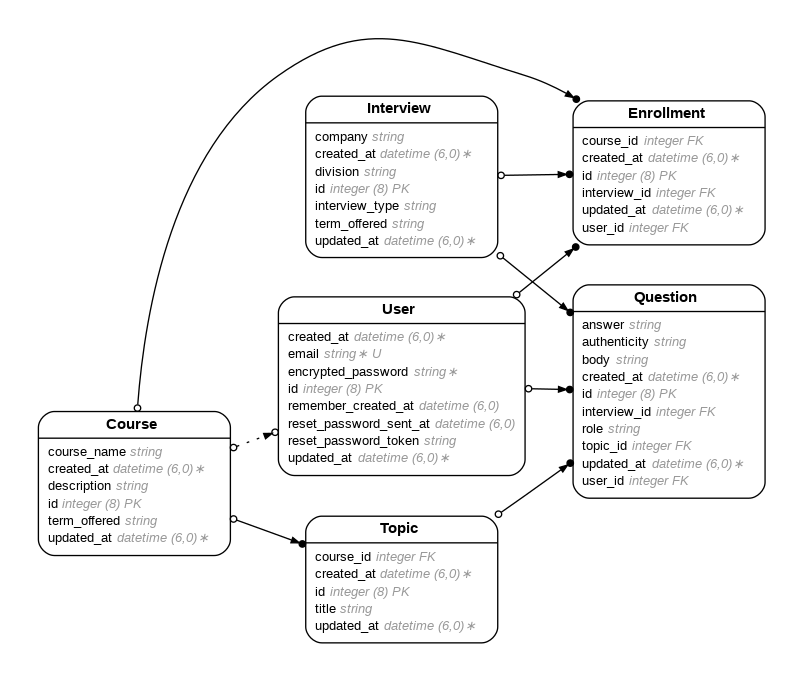
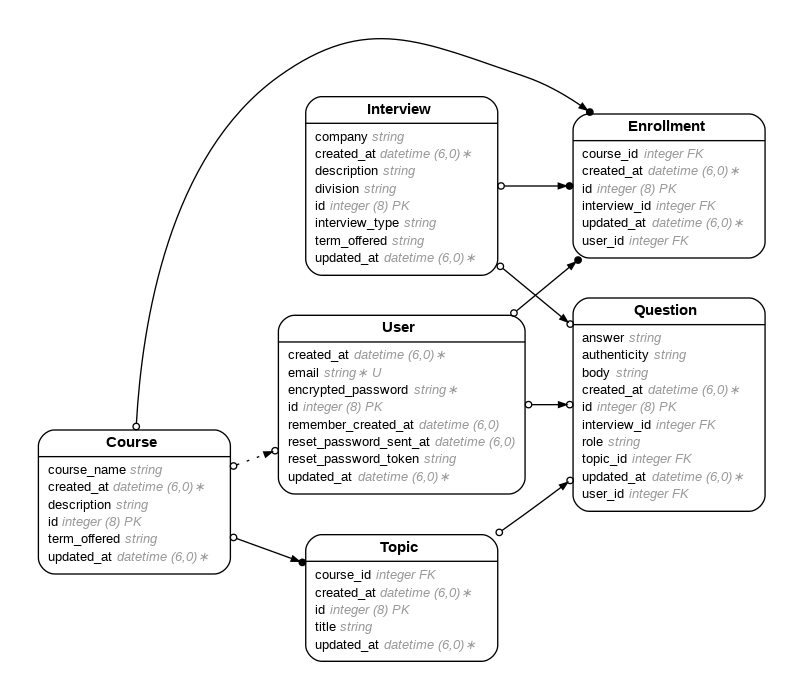
v6 working on interviews

diff --git a/app/controllers/interviews_controller.rb b/app/controllers/interviews_controller.rb
@@ -23,9 +23,74 @@ class InterviewsController < ApplicationController
     the_interview.interview_type = params.fetch("query_interview_type")
     the_interview.term_offered = params.fetch("query_term_offered")
     the_interview.division = params.fetch("query_division")
+    the_interview.description = params.fetch("query_description")
+    
 
     if the_interview.valid?
       the_interview.save
+
+    # Create system message
+
+    system_question = Question.new
+    system_question.interview_id = the_interview.id
+    system_question.role = "system"
+    system_question.body = "You are a #{the_interview.division} #{the_interview.description} mock interviewer. Generate a interview on #{the_interview.interview_type} to simulate a real interview. Start by asking the user to tell you about themselves. Follow up after the user replies with behavioral questions. Ask 5 to 10 behavioral questions one at a time to the user. Then move on to a case question on #{the_interview.title}. For the case, make the structure similar to a consulting or technology interview case. During the case, remember to give them information if they ask any clarifying questions. After both the behavioral portion and the casing portion of the interview is over, please assess the user's answers and give them feedback on where they could improve."
+    system_question.authenticity = "generated"
+    system_question.save
+
+    # Create first user message
+
+    user_question = Question.new
+    user_question.role = "user"
+    user_question.interview_id = the_interview.id
+    user_question.body = "Can you mock interview me about #{the_interview.title} and then provide feedback after?"
+    user_question.authenticity = "generated"
+    # user_question.answer = "user" Need to use an if then statement here
+    if user_question.body.include?("?")
+      user_question.answer = "yes"
+    else
+      user_question.answer = "no" # Or any other default value you prefer
+    end
+    user_question.save
+
+    # Call API to get first assistant message
+
+    client = OpenAI::Client.new(access_token: ENV.fetch("OPENAI_API_KEY"))
+
+    question_list = [
+      {
+        "role" => "system",
+        "content" => "You are a #{the_topic.title} mock interviewer. Generate an interview on #{the_topic.title} to simulate a real interview. Start by asking the user to tell you about themselves. Follow up after the user replies with behavioral questions. Ask 5 to 10 behavioral questions one at a time to the user. Then move on to a case question on #{the_topic.title}. For the case, make the structure similar to a consulting or technology interview case. During the case, remember to give them information if they ask any clarifying questions. After both the behavioral portion and the casing portion of the interview is over, please assess the user's answers and give them feedback on where they could improve."
+    
+      },
+      {
+        "role" => "user",
+        "content" => "Can you mock interview me about #{the_topic.title} and then provide feedback after?"
+      }
+    ]
+
+    api_response = client.chat(
+      parameters: {
+        model: ENV.fetch("OPENAI_MODEL"),
+        messages: question_list
+      }
+    )
+
+    assistant_content = api_response.fetch("choices").at(0).fetch("message").fetch("content")
+
+    assistant_question = Question.new
+    assistant_question.role = "assistant"
+    assistant_question.topic_id = the_topic.id
+    assistant_question.body = assistant_content
+    assistant_question.authenticity = "generated"
+    # assistant_question.answer = "system" Need to use if then statement
+    if assistant_question.body.include?("?")
+      assistant_question.answer = "yes"
+    else
+      assistant_question.answer = "no" # Or any other default value you prefer
+    end
+    assistant_question.save
+
       redirect_to("/interviews", { :notice => "Interview created successfully." })
     else
       redirect_to("/interviews", { :alert => the_interview.errors.full_messages.to_sentence })

diff --git a/db/schema.rb b/db/schema.rb
@@ -10,7 +10,7 @@
 #
 # It's strongly recommended that you check this file into your version control system.
 
-ActiveRecord::Schema[7.1].define(version: 2024_11_26_064923) do
+ActiveRecord::Schema[7.1].define(version: 2024_11_27_232854) do
   # These are extensions that must be enabled in order to support this database
   enable_extension "plpgsql"
 
@@ -37,6 +37,7 @@ ActiveRecord::Schema[7.1].define(version: 2024_11_26_064923) do
     t.string "division"
     t.datetime "created_at", null: false
     t.datetime "updated_at", null: false
+    t.string "description"
   end
 
   create_table "questions", force: :cascade do |t|

diff --git a/app/models/interview.rb b/app/models/interview.rb
@@ -4,6 +4,7 @@
 #
 #  id             :bigint           not null, primary key
 #  company        :string
+#  description    :string
 #  division       :string
 #  interview_type :string
 #  term_offered   :string

diff --git a/db/migrate/20241127232854_add_description_to_interviews.rb b/db/migrate/20241127232854_add_description_to_interviews.rb
@@ -1,0 +1,5 @@
+class AddDescriptionToInterviews < ActiveRecord::Migration[7.1]
+  def change
+    add_column :interviews, :description, :string
+  end
+end
